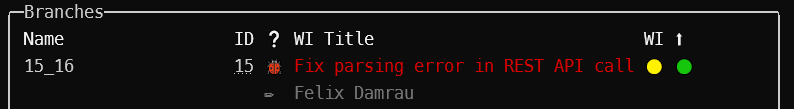
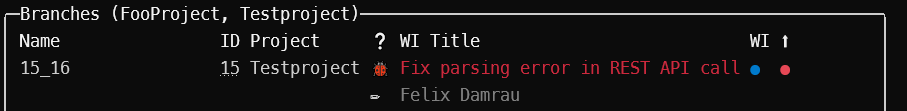
Rework display of azure devops items (#23)
* Use azdo boards work item type names and colors
  * No hardcoded type names any more
* Add option to configure work item type icons via appSettings
* Fix broken --author option
* Update docs

diff --git a/src/RepoCleaner/ConsoleComponents/OverviewTableRow.cs b/src/RepoCleaner/ConsoleComponents/OverviewTableRow.cs
@@ -24,11 +24,11 @@ internal class OverviewTableRow : OverviewTableRowBase
     [OverviewTableColumn(":up_arrow:", 60)]
     public string TrackingBranchStatusString { get; }
 
-    public OverviewTableRow(Branch branch, WorkItem? relatedWorkItem)
+    public OverviewTableRow(Branch branch, WorkItem? relatedWorkItem, IReadOnlyDictionary<string, string> workItemTypeIcons)
     {
         BranchName = GetBranchName(branch);
         WorkItemId = GetWorkItemId(relatedWorkItem);
-        WorkItemTypeString = GetWorkItemType(relatedWorkItem);
+        WorkItemTypeString = GetWorkItemType(relatedWorkItem, workItemTypeIcons);
         Title = GetColoredTitle(relatedWorkItem);
         WorkItemStatusString = GetWorkItemStatus(relatedWorkItem);
         TrackingBranchStatusString = GetTrackingBranchStatus(branch);
@@ -48,26 +48,18 @@ internal class OverviewTableRow : OverviewTableRowBase
 
     private static string GetWorkItemId(WorkItem? relatedWorkItem)
     {
-        return relatedWorkItem is not null
-            ? $"[link={relatedWorkItem.AzureDevopsLink}]{relatedWorkItem.Id}[/]"
+        return relatedWorkItem?.AzureDevopsLink is not null
+            ? $"[link={relatedWorkItem.AzureDevopsLink.Replace(" ", "%20")}]{relatedWorkItem.Id}[/]"
             : ":minus:";
     }
 
-    private static string GetWorkItemType(WorkItem? relatedWorkItem)
+    private static string GetWorkItemType(WorkItem? relatedWorkItem, IReadOnlyDictionary<string, string> workItemTypeIcons)
     {
-        return relatedWorkItem?.WorkItemType switch
-        {
-            null => ":minus:",
-            WorkItemType.Invalid => ":cross_mark:",
-            WorkItemType.Bug => ":lady_beetle:",
-            WorkItemType.Epic => ":star:",
-            WorkItemType.Feature => ":trophy:",
-            WorkItemType.Impediment => ":red_triangle_pointed_up:",
-            WorkItemType.ProductBacklogItem => ":notebook:",
-            WorkItemType.Task => ":spiral_notepad:",
-            WorkItemType.Unknown => ":red_question_mark:",
-            _ => throw new NotImplementedException($"The {nameof(WorkItemType)} '{relatedWorkItem.WorkItemType}' is not supported yet!"),
-        };
+        if (relatedWorkItem?.WorkItemType.Name is not { } workItemType)
+            return ":minus:";
+        if (workItemTypeIcons.TryGetValue(workItemType, out var icon))
+            return icon;
+        return ":red_question_mark:";
     }
 
     private static string GetColoredTitle(WorkItem? workItem)
@@ -75,47 +67,23 @@ internal class OverviewTableRow : OverviewTableRowBase
         if (workItem is null)
             return ":minus:";
         var escapedTitle = workItem.Title.EscapeMarkup();
-        return workItem.WorkItemType switch
-        {
-            WorkItemType.Invalid => escapedTitle,
-            WorkItemType.Bug => $"[red3_1]{escapedTitle}[/]",
-            WorkItemType.Epic => $"[darkorange]{escapedTitle}[/]",
-            WorkItemType.Feature => $"[mediumvioletred]{escapedTitle}[/]",
-            WorkItemType.Impediment => $"[darkviolet_1]{escapedTitle}[/]",
-            WorkItemType.ProductBacklogItem => $"[deepskyblue2]{escapedTitle}[/]",
-            WorkItemType.Task => $"[yellow3_1]{escapedTitle}[/]",
-            WorkItemType.Unknown => escapedTitle,
-            _ => throw new NotImplementedException($"The {nameof(WorkItemType)} '{workItem.WorkItemType}' is not supported yet!"),
-        };
+        return $"[#{workItem.WorkItemType.Color}]{escapedTitle}[/]";
     }
 
     private static string GetWorkItemStatus(WorkItem? relatedWorkItem)
     {
-        return relatedWorkItem?.Status switch
-        {
-            null or
-            WorkItemStatus.Invalid => ":black_circle:",
-            WorkItemStatus.New or
-            WorkItemStatus.Approved or
-            WorkItemStatus.Open or
-            WorkItemStatus.ToDo => ":red_circle:",
-            WorkItemStatus.Committed or
-            WorkItemStatus.InProgress => ":yellow_circle:",
-            WorkItemStatus.Done or
-            WorkItemStatus.Removed or
-            WorkItemStatus.Closed => ":green_circle:",
-            _ => throw new NotImplementedException($"The {nameof(WorkItemStatus)} '{relatedWorkItem.Status}' is not supported yet!"),
-        };
+        var color = relatedWorkItem?.Status.Color is { } colorString ? $"#{colorString}" : "grey30";
+        return $"[{color}]⬤[/]";
     }
 
     private static string GetTrackingBranchStatus(Branch branch)
     {
         return branch.Status switch
         {
-            TrackingBranchStatus.Active => ":green_circle:",
+            TrackingBranchStatus.Active => "[green]⬤[/]",
             TrackingBranchStatus.Invalid => ":cross_mark:",
-            TrackingBranchStatus.None => ":black_circle:",
-            TrackingBranchStatus.Deleted => ":red_circle:",
+            TrackingBranchStatus.None => "[grey30]⬤[/]",
+            TrackingBranchStatus.Deleted => "[red]⬤[/]",
             _ => throw new NotImplementedException($"The {nameof(TrackingBranchStatus)} '{branch.Status}' is not supported yet!"),
         };
     }

diff --git a/src/RepoCleaner/ConsoleComponents/OverviewTable.cs b/src/RepoCleaner/ConsoleComponents/OverviewTable.cs
@@ -38,17 +38,34 @@ internal class OverviewTable
         return repositoryInfoState.Repository
             .Branches
             .Select(b => GetTableRow(b, numberOfTeamProject))
+            .SelectMany(x => x)
             .ToList();
+    }
 
-        OverviewTableRowBase GetTableRow(Branch branch, int numberOfTeamProjects)
+    private IEnumerable<OverviewTableRowBase> GetTableRow(Branch branch, int numberOfTeamProjects)
+    {
+        var workItem = repositoryInfoState.WorkItems.FirstOrDefault(wi => wi.Id == branch.RelatedWorkItemId);
+        var dataRow = GetDataRow(branch, numberOfTeamProjects, workItem);
+
+        if (consoleSettingsState.Author)
         {
-            return numberOfTeamProjects switch
-            {
-                <= 1 => new OverviewTableRow(branch, GetRelatedWorkItem(branch)),
-                >= 2 => new OverviewTableRowWithProject(branch, GetRelatedWorkItem(branch), consoleSettingsState.ShortProjectNames),
-            };
+            var authorRow = new OverviewTableRowAuthor(dataRow, branch.HeadCommitAuthor);
+            return new OverviewTableRowBase[] { dataRow, authorRow };
         }
-        WorkItem? GetRelatedWorkItem(Branch b) => repositoryInfoState.WorkItems.FirstOrDefault(wi => wi.Id == b.RelatedWorkItemId);
+        return new[] { dataRow };
+    }
+
+    private OverviewTableRowBase GetDataRow(Branch branch, int numberOfTeamProjects, WorkItem? workItem)
+    {
+        return numberOfTeamProjects switch
+        {
+            <= 1 => new OverviewTableRow(branch, workItem, consoleSettingsState.WorkItemTypeIcons),
+            >= 2 => new OverviewTableRowWithProject(
+                branch,
+                workItem,
+                consoleSettingsState.WorkItemTypeIcons,
+                consoleSettingsState.ShortProjectNames),
+        };
     }
 
     private static Table CreateTable(OverviewTableRowBase? rowTemplate)

diff --git a/src/RepoCleaner/Store/RepositoryInfoUseCase/Effects.cs b/src/RepoCleaner/Store/RepositoryInfoUseCase/Effects.cs
@@ -51,8 +51,8 @@ public class Effects
         if (!action.LoginResult.Valid)
         {
             var errorMessage = $"[red]Could not login work item service.[/] " +
-                $"Uri: [grey]{consoleSettingsState.Value.AzureDevOpsUri}[/] | " +
-                $"Error: [grey]{action.LoginResult.Message}[/]";
+                $"Uri: [grey30]{consoleSettingsState.Value.AzureDevOpsUri}[/] | " +
+                $"Error: [grey30]{action.LoginResult.Message}[/]";
             AddErrorMessage(errorMessage, dispatcher);
         }
 
@@ -73,8 +73,8 @@ public class Effects
         if (!action.LoginResult.Valid)
         {
             var errorMessage = $"[red]Could not login repo service.[/]" +
-                $"Uri: [grey]{consoleSettingsState.Value.AzureDevOpsUri}[/] | " +
-                $"Error: [grey]{action.LoginResult.Message}[/]";
+                $"Uri: [grey30]{consoleSettingsState.Value.AzureDevOpsUri}[/] | " +
+                $"Error: [grey30]{action.LoginResult.Message}[/]";
             AddErrorMessage(errorMessage, dispatcher);
         }
 
@@ -93,7 +93,7 @@ public class Effects
             _ => throw new NotSupportedException($"The {nameof(BranchSourceKind)} '{action.BranchSourceKind}' is not supported!"),
         };
         if (!repositoryResult.Valid)
-            AddErrorMessage($"[red]Failed to init repository![/] Error: [grey]{repositoryResult.Message}[/]", dispatcher);
+            AddErrorMessage($"[red]Failed to init repository![/] Error: [grey30]{repositoryResult.Message}[/]", dispatcher);
 
         var repository = repositoryResult.Valid
             ? repositoryResult.Value

diff --git a/src/RepoCleaner/ConsoleComponents/OverviewTableRowAuthor.cs b/src/RepoCleaner/ConsoleComponents/OverviewTableRowAuthor.cs
@@ -1,0 +1,37 @@
+using System.Reflection;
+using Spectre.Console;
+
+namespace Develix.RepoCleaner.ConsoleComponents;
+
+internal class OverviewTableRowAuthor : OverviewTableRowBase
+{
+    private readonly string author;
+    private readonly List<PropertyInfo> columnPropertyInfos;
+    private readonly OverviewTableRowBase parentRow;
+
+    public OverviewTableRowAuthor(OverviewTableRowBase parentRow, string author)
+    {
+        this.author = author;
+        columnPropertyInfos = GetStringPropertyInfos(parentRow.GetType()).Select(x => x.Property).ToList();
+        this.parentRow = parentRow;
+    }
+
+    public override IEnumerable<string> GetColumns() => parentRow.GetColumns();
+
+    public override IEnumerable<Markup> GetRowData()
+    {
+        var workItemTypeIndex = GetColumIndex(nameof(OverviewTableRow.WorkItemTypeString));
+        var workItemTitleIndex = GetColumIndex(nameof(OverviewTableRow.Title));
+
+        var authorColumns = Enumerable.Repeat(new Markup(string.Empty), columnPropertyInfos.Count).ToArray();
+        authorColumns[workItemTypeIndex] = new Markup(":pencil:");
+        authorColumns[workItemTitleIndex] = new Markup($"[grey30]{author}[/]");
+        return authorColumns;
+    }
+
+    private int GetColumIndex(string columnpropertyName)
+    {
+        var columnPropertyInfo = columnPropertyInfos.Single(pi => pi.Name == columnpropertyName);
+        return columnPropertyInfos.IndexOf(columnPropertyInfo);
+    }
+}

diff --git a/src/RepoCleaner/ConsoleComponents/DeleteBranchSelectionPrompt.cs b/src/RepoCleaner/ConsoleComponents/DeleteBranchSelectionPrompt.cs
@@ -10,18 +10,18 @@ public static class DeleteBranchSelectionPrompt
     public static IReadOnlyList<Branch> Show(IReadOnlyList<Branch> deletableBranches, IState<RepositoryInfoState> repositoryInfoState)
     {
         var instructionText =
-            "[grey](Press [blue]<space>[/] to toggle deletion of a branch, " +
+            "[grey30](Press [blue]<space>[/] to toggle deletion of a branch, " +
             "[green]<enter>[/] to delete selected branches.)[/]";
         var nonDeletableCount = repositoryInfoState.Value.Repository.Branches.Count - deletableBranches.Count;
         if (nonDeletableCount > 1) // current branch is never deletable
-            instructionText += $"{Environment.NewLine}[grey]Remote braches cannot be deleted and are not shown here[/]";
+            instructionText += $"{Environment.NewLine}[grey30]Remote braches cannot be deleted and are not shown here[/]";
         return AnsiConsole.Prompt(
             new MultiSelectionPrompt<Branch>()
                 .UseConverter((b) => GetDisplayText(b, repositoryInfoState))
                 .Title("Branches to delete?")
                 .NotRequired()
                 .PageSize(6)
-                .MoreChoicesText("[grey](Move up and down to reveal more branches)[/]")
+                .MoreChoicesText("[grey30](Move up and down to reveal more branches)[/]")
                 .InstructionsText(instructionText)
                 .AddChoices(deletableBranches));
     }

diff --git a/src/RepoCleaner/ConsoleComponents/OverviewTableRowBase.cs b/src/RepoCleaner/ConsoleComponents/OverviewTableRowBase.cs
@@ -3,25 +3,25 @@ using Spectre.Console;
 
 namespace Develix.RepoCleaner.ConsoleComponents;
 
-public abstract class OverviewTableRowBase
+internal abstract class OverviewTableRowBase
 {
-    public IEnumerable<Markup> GetRowData()
+    public virtual IEnumerable<Markup> GetRowData()
     {
-        return GetStringPropertyInfos()
+        return GetStringPropertyInfos(GetType())
             .OrderBy(x => x.Attribute.Order)
             .Select(x => GetMarkup(x.Property));
     }
 
-    public IEnumerable<string> GetColumns()
+    public virtual IEnumerable<string> GetColumns()
     {
-        return GetStringPropertyInfos()
+        return GetStringPropertyInfos(GetType())
             .OrderBy(x => x.Attribute.Order)
             .Select(a => a.Attribute.Title);
     }
 
-    private IEnumerable<(PropertyInfo Property, OverviewTableColumnAttribute Attribute)> GetStringPropertyInfos()
+    private protected IEnumerable<(PropertyInfo Property, OverviewTableColumnAttribute Attribute)> GetStringPropertyInfos(Type type)
     {
-        return GetType()
+        return type
             .GetProperties()
             .Where(p => p.PropertyType == typeof(string))
             .Select(p => (Property: p, Attribute: p.GetCustomAttribute<OverviewTableColumnAttribute>()))

diff --git a/src/RepoCleaner/Store/ConsoleSettingsUseCase/ConsoleSettingsState.cs b/src/RepoCleaner/Store/ConsoleSettingsUseCase/ConsoleSettingsState.cs
@@ -7,7 +7,6 @@ namespace Develix.RepoCleaner.Store.ConsoleSettingsUseCase;
 [FeatureState]
 public record ConsoleSettingsState
 {
-    public bool Loading { get; init; }
     public bool ShowDeletePrompt { get; set; }
     public string? Path { get; init; }
     public BranchSourceKind Branches { get; init; }
@@ -16,7 +15,8 @@ public record ConsoleSettingsState
     public bool Config { get; init; }
     public Uri AzureDevOpsUri { get; init; } = null!;
     public List<string> ExcludedBranches { get; init; } = null!;
-    public Dictionary<string, string> ShortProjectNames { get; init; } = null!;
+    public IReadOnlyDictionary<string, string> ShortProjectNames { get; init; } = null!;
+    public IReadOnlyDictionary<string, string> WorkItemTypeIcons { get; init; } = null!;
     public bool Configuring { get; init; }
     public Result ConfigureResult { get; init; } = Result.Fail($"{nameof(ConfigureCredentialsResultAction)} was not executed");
 }

diff --git a/src/RepoCleaner/Store/ConsoleSettingsUseCase/Reducers.cs b/src/RepoCleaner/Store/ConsoleSettingsUseCase/Reducers.cs
@@ -14,7 +14,8 @@ public static class Reducers
             Branches = action.ConsoleArguments.Branches,
             Config = action.ConsoleArguments.Config,
             ExcludedBranches = action.AppSettings.ExcludedBranches,
-            ShortProjectNames = action.AppSettings.ShortProjectNames,
+            ShortProjectNames = new Dictionary<string, string>(action.AppSettings.ShortProjectNames, StringComparer.OrdinalIgnoreCase),
+            WorkItemTypeIcons = new Dictionary<string, string>(action.AppSettings.WorkItemTypeIcons, StringComparer.OrdinalIgnoreCase),
             Path = action.ConsoleArguments.Path,
             Pr = action.ConsoleArguments.Pr,
             ShowDeletePrompt = action.ConsoleArguments.Delete,

diff --git a/src/RepoCleaner/ConsoleComponents/OverviewTableRowWithProject.cs b/src/RepoCleaner/ConsoleComponents/OverviewTableRowWithProject.cs
@@ -9,8 +9,8 @@ internal class OverviewTableRowWithProject : OverviewTableRow
     [OverviewTableColumn("Project", 25)]
     public string TeamProject { get; }
 
-    public OverviewTableRowWithProject(Branch branch, WorkItem? relatedWorkItem, IReadOnlyDictionary<string, string> shortProjectNames)
-        : base(branch, relatedWorkItem)
+    public OverviewTableRowWithProject(Branch branch, WorkItem? relatedWorkItem, IReadOnlyDictionary<string, string> workItemTypeIcons, IReadOnlyDictionary<string, string> shortProjectNames)
+        : base(branch, relatedWorkItem, workItemTypeIcons)
     {
         TeamProject = GetTeamProject(relatedWorkItem, shortProjectNames);
     }

diff --git a/src/RepoCleaner/ConsoleComponents/Delete.cs b/src/RepoCleaner/ConsoleComponents/Delete.cs
@@ -14,7 +14,7 @@ public static class Delete
 
         if (deletableBranches.Count == 0)
         {
-            AnsiConsole.MarkupLine("[grey]No branches can be deleted.[/]");
+            AnsiConsole.MarkupLine("[grey30]No branches can be deleted.[/]");
             return Array.Empty<Branch>();
         }
         return DeleteBranchSelectionPrompt.Show(deletableBranches, repositoryInfoState);

diff --git a/src/RepoCleaner/ConsoleComponents/OverviewTableColumnAttribute.cs b/src/RepoCleaner/ConsoleComponents/OverviewTableColumnAttribute.cs
@@ -1,7 +1,7 @@
 namespace Develix.RepoCleaner.ConsoleComponents;
 
 [AttributeUsage(AttributeTargets.Property, AllowMultiple = false)]
-public class OverviewTableColumnAttribute : Attribute
+internal class OverviewTableColumnAttribute : Attribute
 {
     public string Title { get; }
     public int Order { get; }

diff --git a/src/RepoCleaner/Model/AppSettings.cs b/src/RepoCleaner/Model/AppSettings.cs
@@ -13,4 +13,5 @@ public class AppSettings
     public List<string> ExcludedBranches { get; set; } = new();
 
     public Dictionary<string, string> ShortProjectNames { get; set; } = new();
+    public Dictionary<string, string> WorkItemTypeIcons { get; set; } = new();
 }
